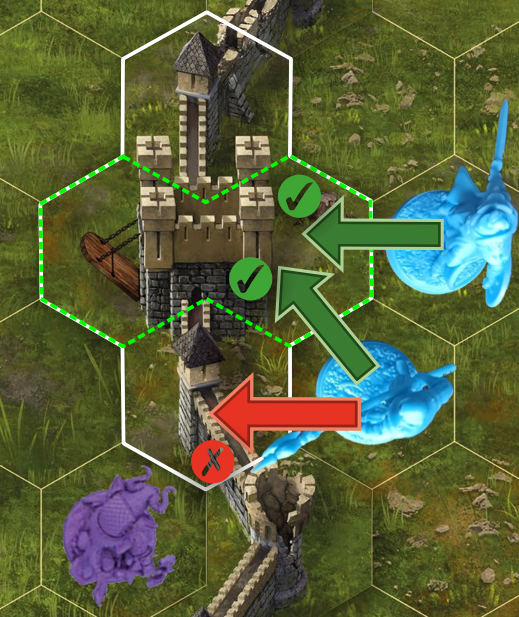
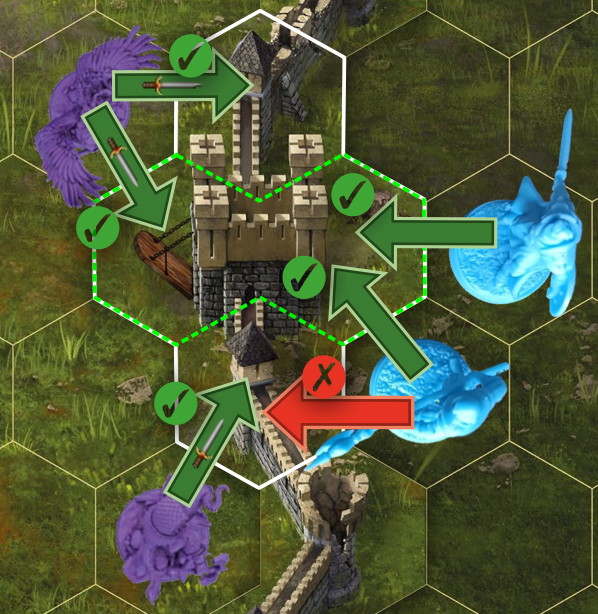
depict attack on the gate

diff --git a/sections/expansion_content.tex b/sections/expansion_content.tex
@@ -250,7 +250,7 @@ In addition to new gameplay mechanics, expansions also expand the variety of exi
 
     \vspace*{1em}
     \includegraphics[width=\linewidth]{\examples/bf-gate-token.png}
-    \footnotesize\textit{Example: Halberdier and Crusader (defenders) may enter the Gate Token only along the green arrows, but Minotaur is still able to attack the Gate Token from aside.}
+    \footnotesize\textit{Example: Halberdier and Crusader (defenders) may enter the Gate Token only along the green arrows, but Minotaur and Harpies are still able to attack the Gate Token from any side.}
   \end{itemize}
   \end{multicols*}
 \end{expansion}
